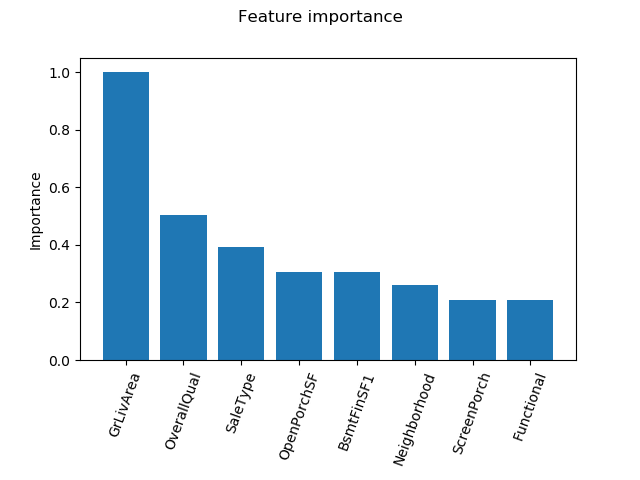
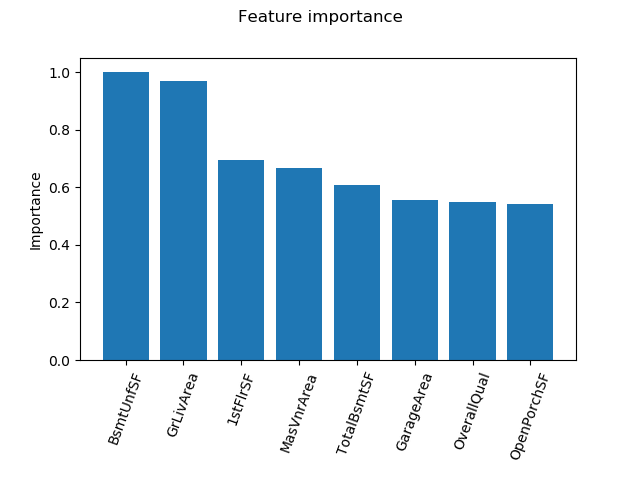
Performance improvements

diff --git a/part3.py b/part3.py
@@ -116,16 +116,15 @@ class GBRT(object):
             tree = self._cart.fit((train_X[samples], g_m))
 
             phi_of_x = np.array([tree.evaluate(x) for x in train_X])
-            beta_m = np.dot(-g_m, phi_of_x[samples]) / np.sum(np.power(phi_of_x[samples], 2))
-            self._reg_tree_ensemble.add_tree(tree, beta_m)
+            beta_m = phi_of_x[samples].dot(-g_m) / phi_of_x[samples].dot(phi_of_x[samples])
+            self._reg_tree_ensemble.add_tree(tree, shrinkage_factor * beta_m)
 
             train_f_last += shrinkage_factor * beta_m * phi_of_x
 
             if m in self._shrinkage_checkpoints:
-                shrinkage_factor /= 2.0
+                shrinkage_factor *= 0.75
                 if liveview:
                     print 'Shrinkage factor updated to: ', shrinkage_factor
-
 
             train_errors.append(self._mean_error(train_f_last, train_y))
             error_str = 'Learners: {:3d} | Train error: {:15.5f} |'.format(m, train_errors[-1])

diff --git a/main.py b/main.py
@@ -15,8 +15,7 @@ import matplotlib.pyplot as plt
 from part1 import load_data, split_train_test, TrainData, TestData
 from part3 import GBRT
 
-np.random.seed(1234)
-
+np.random.seed(4321)
 
 if __name__ == '__main__':
 
@@ -28,6 +27,7 @@ if __name__ == '__main__':
 
     with open('config.json', 'r') as f:
         gbrt_config = json.load(f)
+
 
     gbrt = GBRT(**gbrt_config)
     time_before = datetime.datetime.now()
